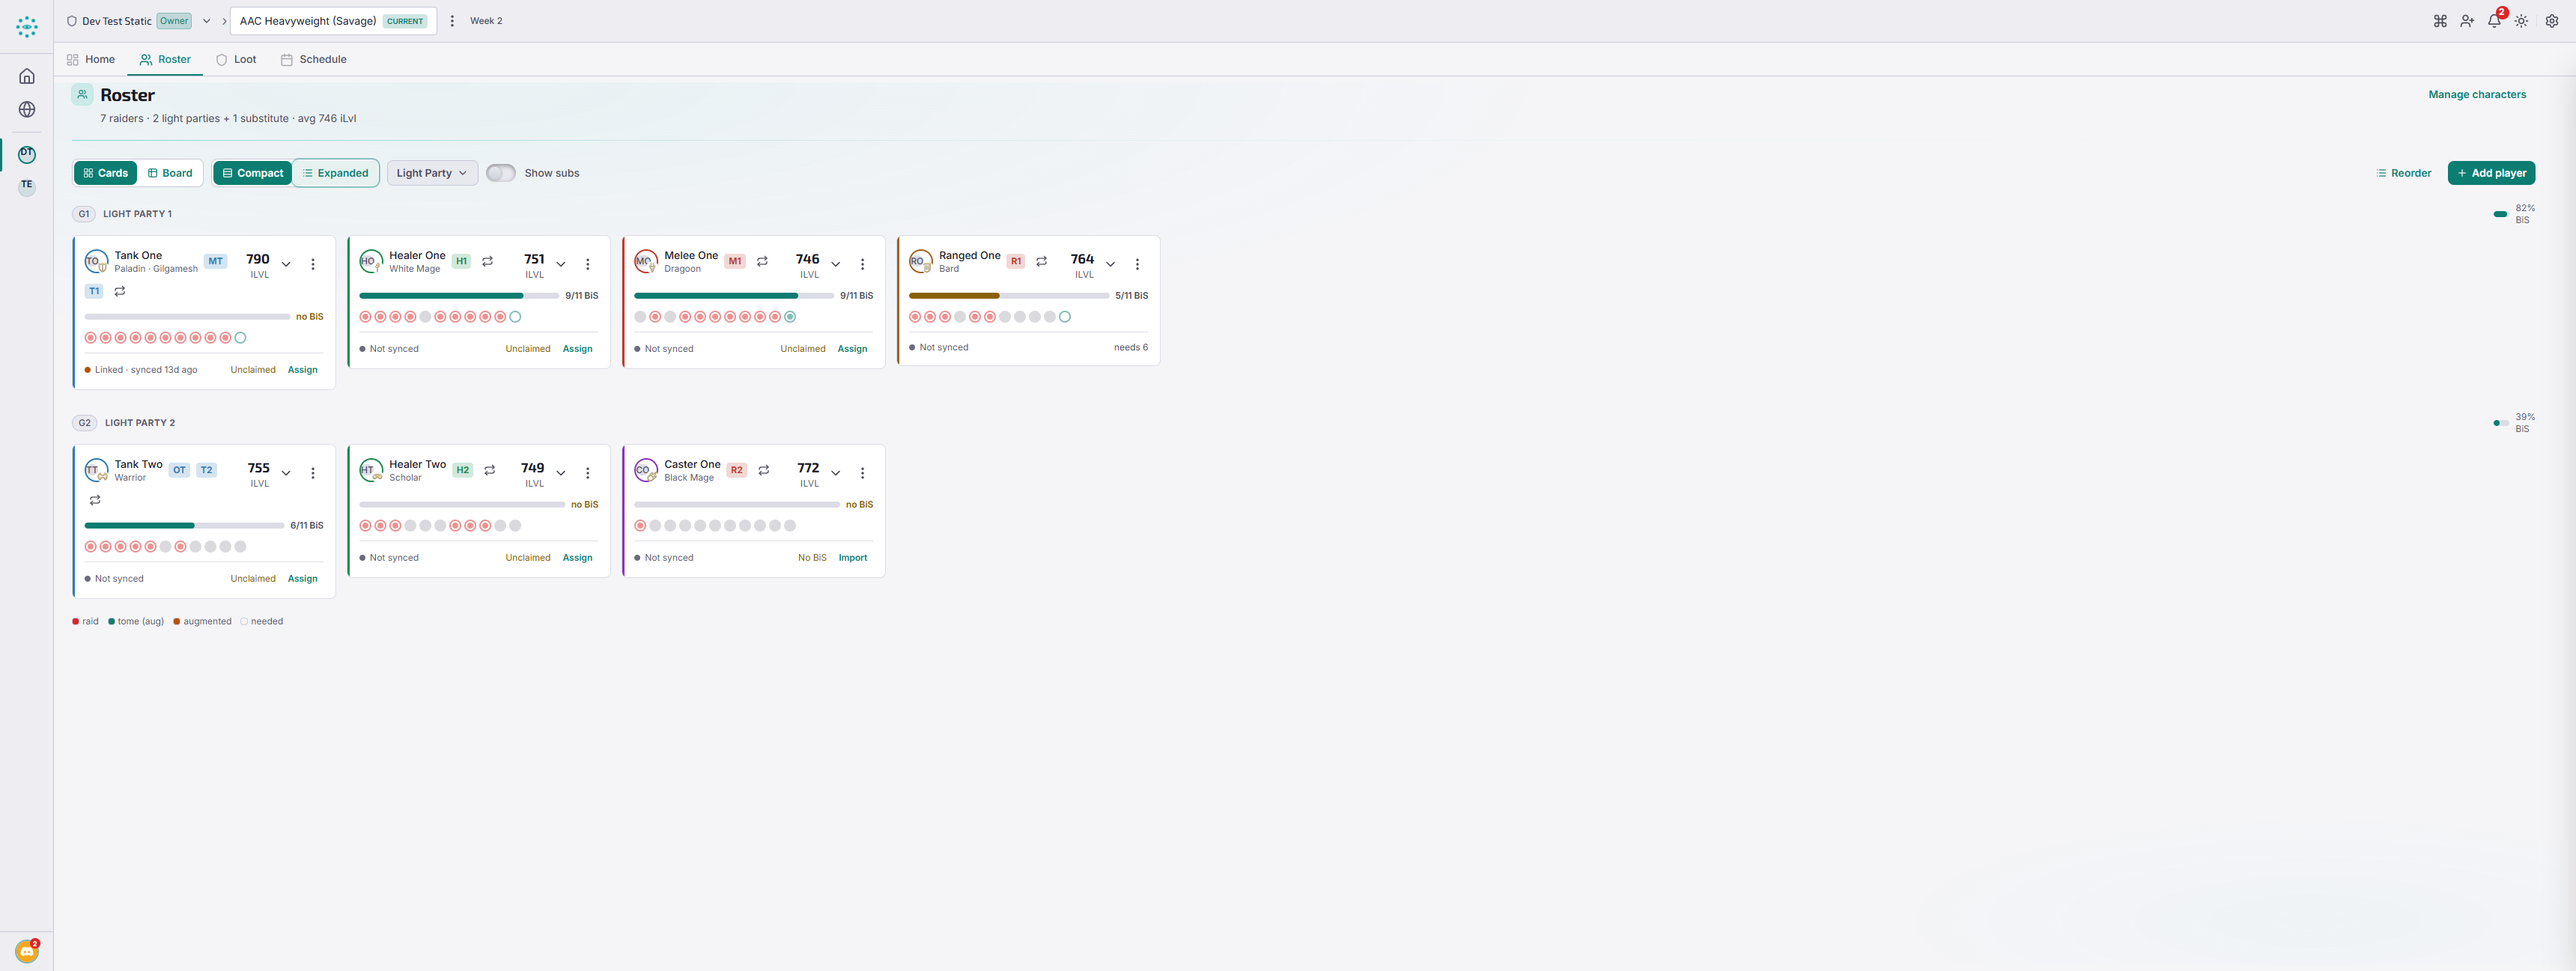
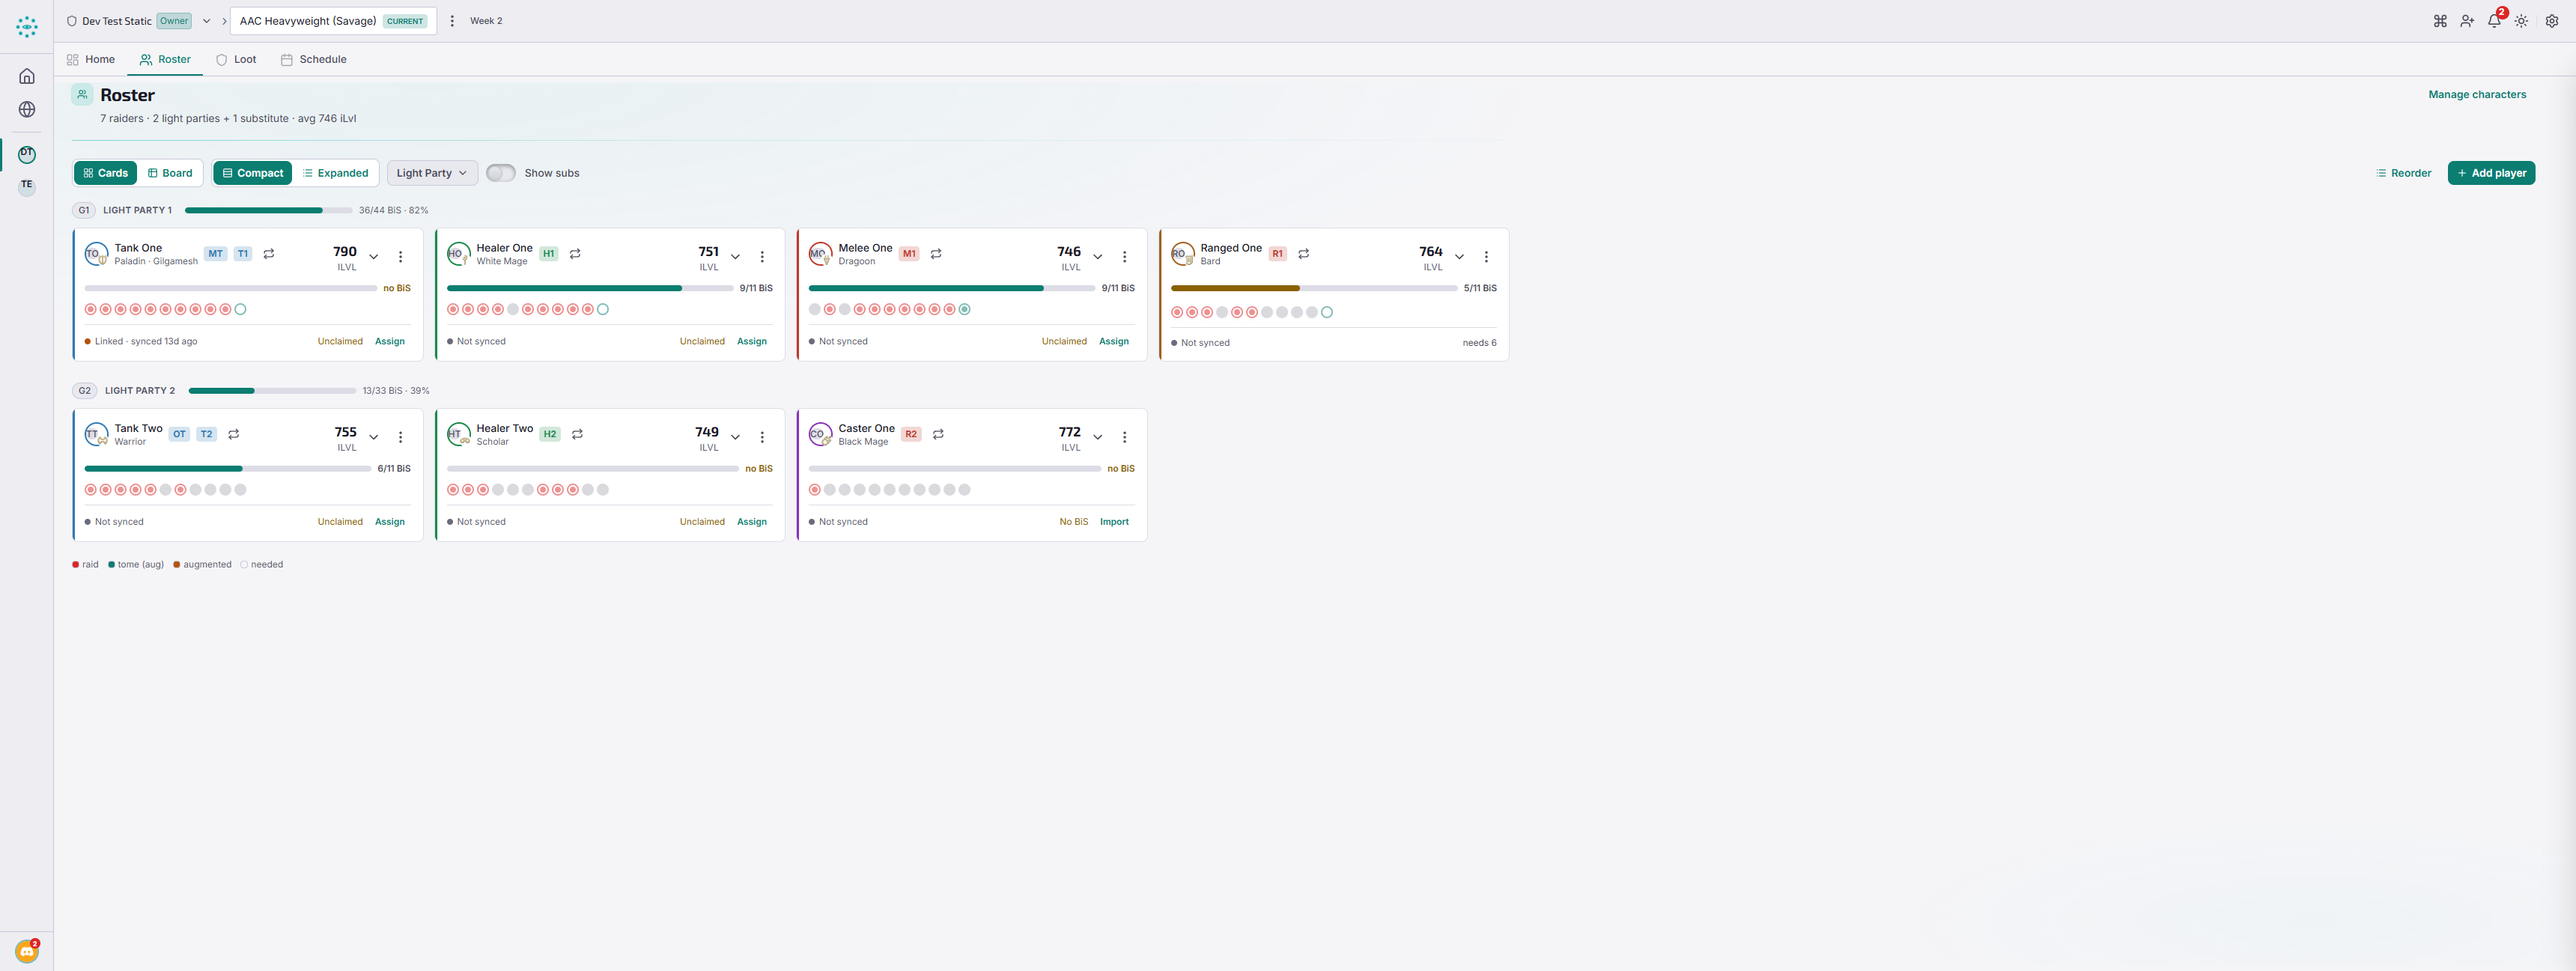
feat(redesign): C1 checkpoint feedback — even card heights + anchored party head
Layout rework from the user's checkpoint review (uneven card heights, party
BiS% floating far right on wide viewports, bar too small to read):

- Card grid: mockup's auto-fill/minmax(330px) replaced with legacy
  PlayerGrid's responsive column discipline (1/2/3 + .grid-4xl at 1400px)
  inside a 120rem cap — cards share each row evenly and stop clustering left
  at fixed sizes on wide viewports
- Equal heights: h-full chain (grid cell -> wrapper -> CardShell flex-col,
  incl. DraggableRosterCard + OpenSeatCard) + legacy PlayerCard's interior
  flex-1 spacers (compact pads above the pips, expanded below the table) —
  headers top, gear + footer pinned bottom, rows equalize even with mixed
  per-card densities (verified live: 4x735 / 3x687 expanded, 179 across
  compact, 603 across a mixed row)
- Party head: aggregate bar moves NEXT TO the G1/G2 label (was ml-auto,
  floating in dead space), doubled to w-56, text now shows the legacy
  obtained/total count (36/44 BiS · 82%)
- Found while fixing: the head's ProgressBar was collapsing to 0 width —
  a width utility passed via className loses the stylesheet-order fight
  against the component's own w-full (why the old bar looked tiny); width
  now lives on a wrapper

Changed region(s): [[0.0311, 0.1542, 0.591, 0.6476], [0.311, 0.5551, 0.3422, 0.586]]

diff --git a/frontend/src/components/roster/RosterCards.tsx b/frontend/src/components/roster/RosterCards.tsx
@@ -76,8 +76,17 @@ import { bisSlotTotals } from '../../utils/rosterReadiness';
 import { getValidRole } from '../../gamedata';
 import type { ContentType, MemberRole, SnapshotPlayer, ViewMode } from '../../types';
 
-/** Mockup `.pcards`: `repeat(auto-fill, minmax(330px, 1fr))`, ~14px gap. */
-const PCARDS_GRID = 'grid grid-cols-[repeat(auto-fill,minmax(330px,1fr))] gap-3.5';
+/**
+ * Card grid — C1 checkpoint feedback (user, 2026-07-26): the mockup's
+ * `auto-fill minmax(330px,1fr)` left cards clustered left at fixed sizes on
+ * wide viewports. Restored to legacy PlayerGrid's discipline (its
+ * `grid-cols-1 sm:2 lg:3` + the `.grid-4xl` 4-column ultrawide utility from
+ * index.css) inside a 120rem cap (`CARDS_MAX_W`, v1's content width) so cards
+ * share each row evenly and stop growing on ultrawide. Fixed tracks + the
+ * cards' h-full/spacer interior (RosterCard) give equal heights per row.
+ */
+const PCARDS_GRID = 'grid grid-cols-1 sm:grid-cols-2 lg:grid-cols-3 grid-4xl gap-3.5';
+const CARDS_MAX_W = 'max-w-[120rem]';
 
 export interface RosterCardsProps {
   players: SnapshotPlayer[];
@@ -188,7 +197,7 @@ function DraggableRosterCard({ player, canManage, children }: DraggableRosterCar
       ref={setNodeRef}
       data-droppable-id={player.id}
       style={{ opacity: isBeingDragged ? 0.3 : 1 }}
-      className={`relative rounded-lg transition-all duration-150 ${
+      className={`relative h-full rounded-lg transition-all duration-150 ${
         showSwap ? 'ring-2 ring-accent shadow-lg shadow-accent/20' : ''
       }`}
     >
@@ -223,32 +232,43 @@ function RosterCardsDragOverlay({ players }: { players: SnapshotPlayer[] }) {
   );
 }
 
-/** Aggregate BiS ratio (obtained / total BiS slots) across a party's roster. */
-function partyBisRatio(partyPlayers: SnapshotPlayer[]): number {
-  const { obtained, total } = bisSlotTotals(partyPlayers);
-  return total > 0 ? obtained / total : 0;
-}
-
 interface PartyHeadProps {
   tag: string;
   label: string;
-  /** Omitted entirely for the Substitutes head — no bar, per spec §5.6. */
-  ratio?: number;
+  /**
+   * Players whose aggregate BiS the head reports. Omitted entirely for the
+   * Substitutes head — no bar, per spec §5.6.
+   */
+  barPlayers?: SnapshotPlayer[];
   tagClassName?: string;
 }
 
-/** Fresh v2 party-head row (G1/G2/SUB badge + name + aggregate BiS bar). */
-function PartyHead({ tag, label, ratio, tagClassName }: PartyHeadProps) {
+/**
+ * v2 party-head row (G1/G2/SUB badge + name + aggregate BiS bar). C1 checkpoint
+ * feedback (2026-07-26): the bar sits NEXT TO the label — right-justifying it
+ * left it floating in dead space on wide viewports — doubled in length, with
+ * the legacy obtained/total count so what it measures is legible at a glance.
+ */
+function PartyHead({ tag, label, barPlayers, tagClassName }: PartyHeadProps) {
+  const { obtained, total } = barPlayers ? bisSlotTotals(barPlayers) : { obtained: 0, total: 0 };
+  const ratio = total > 0 ? obtained / total : 0;
   return (
-    <div className="flex items-center gap-2.5">
+    <div className="flex flex-wrap items-center gap-2.5">
       <Tag variant="label" tone="muted" className={tagClassName}>
         {tag}
       </Tag>
       <span className="text-xs font-bold uppercase tracking-wide text-text-tertiary">{label}</span>
-      {ratio != null && (
-        <div className="ml-auto flex items-center gap-2">
-          <ProgressBar value={ratio} ariaLabel={`${label} BiS progress`} className="w-28" />
-          <span className="text-xs text-text-tertiary">{Math.round(ratio * 100)}% BiS</span>
+      {barPlayers && (
+        <div className="ml-2 flex items-center gap-2">
+          {/* Width on a wrapper: ProgressBar's own root is w-full, and a width
+              utility passed via className can lose the stylesheet-order fight
+              against it (the old w-28 bar was collapsing to 0 exactly this way). */}
+          <div className="w-56">
+            <ProgressBar value={ratio} ariaLabel={`${label} BiS progress`} />
+          </div>
+          <span className="whitespace-nowrap text-xs text-text-tertiary">
+            {obtained}/{total} BiS · {Math.round(ratio * 100)}%
+          </span>
         </div>
       )}
     </div>
@@ -312,7 +332,7 @@ export function RosterCards({
     <div
       key={player.id}
       id={`player-card-${player.id}`}
-      className={player.id === highlightedPlayerId ? 'highlight-pulse rounded-lg' : undefined}
+      className={`h-full${player.id === highlightedPlayerId ? ' highlight-pulse rounded-lg' : ''}`}
     >
       <RosterCard
         player={player}
@@ -347,7 +367,7 @@ export function RosterCards({
       // spawn yet another blank slot elsewhere.
       const seatActions = actionsForPlayer(player);
       return (
-        <div key={player.id} id={`player-card-${player.id}`} className={`relative${highlightClass}`}>
+        <div key={player.id} id={`player-card-${player.id}`} className={`relative h-full${highlightClass}`}>
           <OpenSeatCard
             player={player}
             canManage={canManage}
@@ -376,17 +396,17 @@ export function RosterCards({
     const showSubs = subsView && !subsHidden && grouped.substitutes.length > 0;
 
     body = (
-      <div className="space-y-7">
+      <div className={`space-y-7 ${CARDS_MAX_W}`}>
         {grouped.group1.length > 0 && (
           <div>
-            <PartyHead tag="G1" label="Light Party 1" ratio={partyBisRatio(grouped.group1)} />
+            <PartyHead tag="G1" label="Light Party 1" barPlayers={grouped.group1} />
             <div className={`mt-3 ${PCARDS_GRID}`}>{grouped.group1.map(renderPlayer)}</div>
           </div>
         )}
 
         {grouped.group2.length > 0 && (
           <div>
-            <PartyHead tag="G2" label="Light Party 2" ratio={partyBisRatio(grouped.group2)} />
+            <PartyHead tag="G2" label="Light Party 2" barPlayers={grouped.group2} />
             <div className={`mt-3 ${PCARDS_GRID}`}>{grouped.group2.map(renderPlayer)}</div>
           </div>
         )}
@@ -415,7 +435,7 @@ export function RosterCards({
     const showSubs = subsView && !subsHidden && subs.length > 0;
 
     body = (
-      <div className="space-y-7">
+      <div className={`space-y-7 ${CARDS_MAX_W}`}>
         <div className={PCARDS_GRID}>{mainPlayers.map(renderPlayer)}</div>
         {showSubs && (
           <div>

diff --git a/frontend/src/components/roster/RosterCard.tsx b/frontend/src/components/roster/RosterCard.tsx
@@ -319,8 +319,11 @@ export function RosterCard({
   const dragProps = reorderMode ? { ...dragHandle?.attributes, ...dragHandle?.listeners } : {};
 
   return (
-    <div className="relative" onContextMenu={openContextMenu} {...dragProps}>
-      <CardShell as="div" className="relative overflow-hidden">
+    // h-full + flex-col + interior flex-1 spacers (below) = legacy PlayerCard's
+    // equal-height discipline: every card fills its grid row track, headers at
+    // the top, gear + footer pinned to the bottom (C1 checkpoint feedback).
+    <div className="relative h-full" onContextMenu={openContextMenu} {...dragProps}>
+      <CardShell as="div" className="relative flex h-full flex-col overflow-hidden">
         {/* Role-colored accent edge (semantic role var → token-compliant). */}
         <span
           aria-hidden="true"
@@ -441,25 +444,33 @@ export function RosterCard({
         {/* ── Gear section: pip strip (compact) or gear-table shell (expanded, D-01).
                Either/or, matching legacy PlayerCardGear — the table replaces the
                pips, never stacks under them. Both are read-only in C1 (editing
-               is C2). ── */}
+               is C2). Spacer placement mirrors legacy PlayerCard: compact pads
+               ABOVE the gear (pips + footer align at the bottom across cards),
+               expanded pads BELOW the table (footer still pinned). ── */}
         {isExpanded ? (
-          <div className="mt-3 border-t border-border-subtle pt-2">
-            <RosterGearTable gear={player.gear} tomeWeapon={player.tomeWeapon} />
-          </div>
+          <>
+            <div className="mt-3 border-t border-border-subtle pt-2">
+              <RosterGearTable gear={player.gear} tomeWeapon={player.tomeWeapon} />
+            </div>
+            <div className="flex-1" />
+          </>
         ) : (
-          <div className="mt-3 flex flex-wrap gap-1">
-            {player.gear.map((slot) => (
-              <GearStatusCircle
-                key={slot.slot}
-                state={toGearState(slot.hasItem, slot.isAugmented)}
-                bisSource={slot.bisSource}
-                requiresAugmentation={requiresAugmentation(slot)}
-                onChange={() => {}}
-                disabled
-                size="sm"
-              />
-            ))}
-          </div>
+          <>
+            <div className="flex-1" />
+            <div className="mt-3 flex flex-wrap gap-1">
+              {player.gear.map((slot) => (
+                <GearStatusCircle
+                  key={slot.slot}
+                  state={toGearState(slot.hasItem, slot.isAugmented)}
+                  bisSource={slot.bisSource}
+                  requiresAugmentation={requiresAugmentation(slot)}
+                  onChange={() => {}}
+                  disabled
+                  size="sm"
+                />
+              ))}
+            </div>
+          </>
         )}
 
         {/* ── Footer: character link/sync · status CTA ── */}

diff --git a/frontend/src/components/roster/OpenSeatCard.tsx b/frontend/src/components/roster/OpenSeatCard.tsx
@@ -77,7 +77,7 @@ export function OpenSeatCard({ player, canManage, onConfigure, onRemove }: OpenS
   };
 
   return (
-    <CardShell as="div" className="relative overflow-hidden border-dashed">
+    <CardShell as="div" className="relative h-full overflow-hidden border-dashed">
       {/* Neutral accent edge — open seats have no role color of their own. */}
       <span
         aria-hidden="true"
